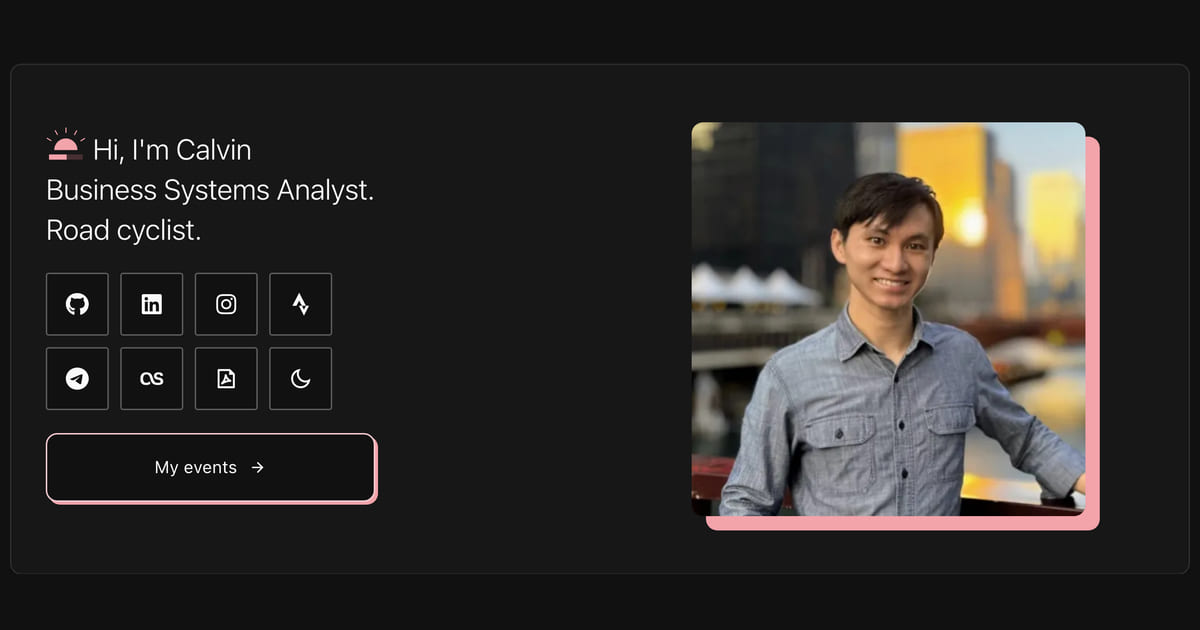
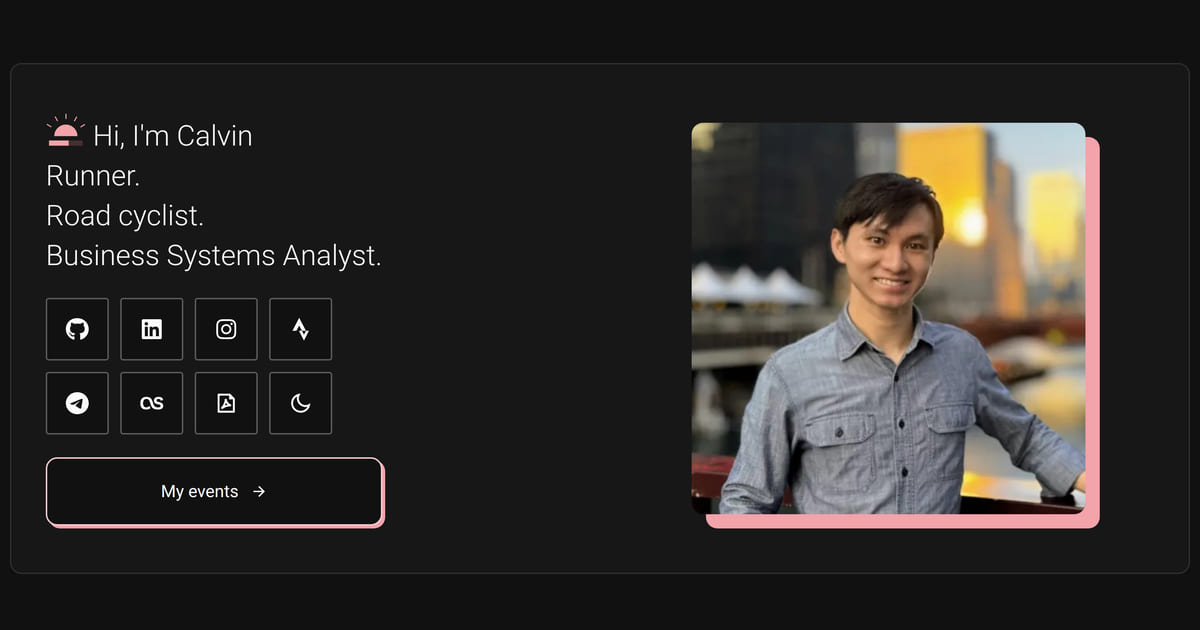
feat(home): lead the intro card with the running, and drop the #cyclehome line (#273)
The hero stack runs sport first and the job last — greeting, Runner., Road
cyclist., job — with the job line still DERIVED from CAREER[0].job_name.
`Runner.` was missing while a running goal card, a running patch wall and a
running spine all shipped.

The About card drops "Join me in my latest cycling challenge 1000km in 5
weeks, helping vulnerable teens #cyclehome". That was blocked on one thing:
plans/README.md filed it as DIRECT-04 and deliberately left it open because
it is the owner's own voice. The owner asked. DIRECT-04 moves to resolved
beside DIRECT-01, and the note above ABOUT_ME keeps the rule without the
sentence it was protecting. Two comments that cited the removed line as their
example now state their rule instead.

The intro card's copy column reserves its height with a FLOOR rather than a
ceiling. `md:max-h-[18.75rem]` still deleted ink: what overflows this column
is the wrapping control row, which gains a whole row at a stroke rather than
scaling with the text, so the content clears the ceiling in one step whatever
unit it is in. Measured at 1280 on the previous revision — 0 overflow at a
16px and 24px root, 95px at 32px, 189px at 40px — and the column centres what
it holds, so half of that left the card's top edge and took the greeting with
it. A reader at 200% text lost the site's first line. Overflow is now 0 at
every root from 16 to 40.

Height, measured on builds of each pair in one sitting: `<main>` and the card
[…]

diff --git a/src/content/home.ts b/src/content/home.ts
@@ -1,5 +1,5 @@
 /**
- * THE HOME PAGE'S CARDS, IN THEIR OWN WORDS: the intro card's h1 stack and its about
+ * THE HOME PAGE'S CARDS, IN THEIR OWN WORDS: the intro card's hero stack, the About card's
  * bullets, the two career entries, the open-source list that reaches no card at all, and
  * the Now card. Copy that belongs to no single card is next door in `src/content/site.ts`.
  *
@@ -145,26 +145,35 @@ export const PROJECTS: {
 }]
 
 /**
- * The intro card's own voice — and the second line NAMES A CHALLENGE THAT IS STILL ON.
+ * The About card's own voice, one bullet per entry. It is ONE line now, and this note is the
+ * record of why the second one left, because that removal is the one thing this file spent a
+ * paragraph arguing an agent must not do on its own.
  *
- * ITS AGE IS NOT EVIDENCE OF DRIFT. A copy audit reached for this line because it had
- * not changed in over a year, which measures the git log rather than the challenge:
- * the ride it names is one the maintainer is still riding, so the sentence is current
- * and was kept. The only thing that can settle this line is the challenge itself —
- * check that before rewriting it, and do not take a commit date as the answer.
+ * THE SECOND LINE ADVERTISED A "1000km in 5 weeks" CHALLENGE, AND ITS AGE WAS NEVER THE
+ * ARGUMENT AGAINST IT. A copy audit reached for it because it had not changed in over a year,
+ * which measures the git log rather than the challenge, and the challenge was still on at the
+ * time — so it was kept, and the defence written here was correct. `plans/README.md` filed the
+ * same finding as DIRECT-04 and left it open on the same grounds: it is the owner's own voice,
+ * so an agent should not rewrite it. THE OWNER ASKED FOR IT, which is exactly and only what
+ * could settle it; that entry now carries the resolution.
+ *
+ * WHAT SURVIVES IS THE RULE RATHER THAN THE SENTENCE IT PROTECTED. A line here is a
+ * self-description, so a commit date is never evidence that one has expired — and neither is a
+ * removed line being missed. Ask; do not audit.
  */
 export const ABOUT_ME: {
     description: string[]
 } = {
     description: [
-        "If you tell me to wake up before sunrise, I'd say you're crazy. But if it's for cycling? Count me in!",
-        "Join me in my latest cycling challenge 1000km in 5 weeks, helping vulnerable teens #cyclehome"
+        "If you tell me to wake up before sunrise, I'd say you're crazy. But if it's for cycling? Count me in!"
     ]
 }
 
 /**
- * The intro card's h1 stack — one `<h1>` per line, and THE JOB LINE IS DERIVED like every other
- * statement of the job on this site.
+ * The intro card's hero stack — the first line is the `<h1>` greeting and carries the brand mark,
+ * the rest are taglines drawn as paragraphs, and THE JOB LINE IS DERIVED like every other
+ * statement of the job on this site. The card splits the array, so a line added here is a
+ * tagline wherever it sits after the first; see `src/components/IntroCard.astro`.
  *
  * IT USED TO BE A TYPED COPY, AND IT WAS WRONG. The line was character-identical to the NCS title
  * of the day — {@link CAREER}[1].job_name, held until Aug 2023 — while the role card a few hundred
@@ -178,7 +187,28 @@ export const ABOUT_ME: {
  * reference worth keeping anywhere. It named nothing else on the site — no card, no page, no goal,
  * no event — and it was already cut from {@link METADATA.title} for the pixels. Cutting it here too
  * is what makes that a decision about the copy rather than a truncation forced by a budget, and it
- * pays for the longer job line: the stack is three h1s where it was four.
+ * pays for the longer job line: the stack went to three lines from four.
+ *
+ * THE TAGLINES RUN SPORT FIRST AND THE JOB LAST, and that is an editorial call rather than a
+ * derived one — so it is written down here, where the lines are, instead of being inferred from
+ * their order. `Runner.` was missing outright while a running goal card, a running patch wall and
+ * a running spine all shipped, and the job led a hero standing on a page whose every other card is
+ * about the training. The stack is back to four lines: greeting, `Runner.`, `Road cyclist.`, job.
+ *
+ * IT COSTS ONE LINE AND THE CARD ABSORBS IT AT `md` AND UP — measured on builds of both revisions
+ * in one sitting, not assumed, because the figures move with whatever the system font stack
+ * resolves to and a pair read on different days is not a comparison. The copy column reserves
+ * `md:min-h-[18.75rem]` and centres what it holds, so a fourth line spends slack that column was
+ * already carrying: the type block goes 86.95 to 114.95, and the card and `<main>` measure the
+ * same on both revisions at 1280, 1440 and 1024. That is the height budget `src/pages/index.astro`
+ * keeps, untouched. Below `md` there is no slack to spend, and the document grows by exactly that
+ * line — 28px at 390x844.
+ *
+ * A FIFTH LINE IS NOT FREE, AND WHAT IT COSTS DEPENDS ON WHERE THE SLACK RAN OUT. Read the note in
+ * `src/components/IntroCard.astro` before adding one: past the floor the column sizes to its own
+ * content, so the line lands on the card and then on `<main>`, whose budget is 14px at 1280 and
+ * 24px at 1024. Nothing clips either way — that is the floor's whole job — but the one screen the
+ * home page promises is spent.
  *
  * ANY EDIT HERE OWES A `public/preview.jpg` REGENERATION. That file is both the OG/social image and
  * README's hero, and it is a render of this very card. It used to go stale invisibly — nothing
@@ -212,7 +242,7 @@ export const WELCOME: {
 } = {
     mark_label: "Calvin's mark — its bar is {percent}% full, the average of this year's "
         + "cycling and running goals",
-    description: ["Hi, I'm Calvin", `${CAREER[0].job_name}.`, "Road cyclist."]
+    description: ["Hi, I'm Calvin", "Runner.", "Road cyclist.", `${CAREER[0].job_name}.`]
 }
 
 /**

diff --git a/tests/content.test.ts b/tests/content.test.ts
@@ -584,10 +584,31 @@ describe("prose blocks", () => {
  *   composite at (10, 63) on a 1200x630 canvas filled with #111111. 1200x630 is the OG aspect
  *   ratio and is load-bearing; the 1.43x enlargement is what makes it a recognisable hero.
  *   Encode with `sharp` — already a devDependency — at `{quality: 82, chromaSubsampling: "4:4:4",
- *   mozjpeg: true}`, which lands around 54-56 KB. 4:4:4 because the subject is UI text and icon
- *   edges. Then diff the new render against the committed file and look at the BOUNDING BOX of
- *   the changed pixels, not a whole-image metric: a copy change should move one band the height
- *   of one line. Anything taller means the composition moved.
+ *   mozjpeg: true}`, which lands in the low 50s of KB. 4:4:4 because the subject is UI text and
+ *   icon edges. Then diff the new render against the committed file and look at the BOUNDING BOX
+ *   of the changed pixels, not a whole-image metric.
+ *
+ * TWO THINGS THE RECIPE USED TO SAY ARE CORRECTED HERE, both by re-measuring rather than by
+ * reasoning, and both would have read as a failed retake to the next person who followed it:
+ *
+ *   THE BOUNDING BOX IS NOT ONE LINE-BAND, and it stopped being one when the copy column started
+ *   centring what it holds. This said "a copy change should move one band the height of one line.
+ *   Anything taller means the composition moved" — true of a column pinned at its top, and false
+ *   of this one: adding a line pushes everything above the centre up by half a line and everything
+ *   below it down by the same, so the box covers the whole copy column. Retaking with a fourth
+ *   tagline moved 661x417 of it. What still holds is the useful half — the CARD's own box must not
+ *   move. It measured 824x358.30 at the 1200px capture width before and after, so the composite
+ *   geometry above was unchanged; a card that has grown is the thing a retake must not paper over.
+ *
+ *   THE TYPE IS A SYSTEM STACK, SO THE RENDERING MACHINE IS PART OF THE RECIPE. `BasicLayout.astro`
+ *   asks for `-apple-system, BlinkMacSystemFont, "Segoe UI", Roboto, ...`, so a Mac renders this
+ *   hero in SF and a bare Linux box falls through to whatever Helvetica aliases to — Liberation
+ *   Sans, i.e. Arial metrics, which set the same copy 4-5% wider and widened the call to action
+ *   with it. That is a re-typesetting arriving inside a copy change, and it is invisible in a
+ *   fingerprint. Resolve the stack as authored: with Roboto installed, a Linux retake of the
+ *   UNCHANGED card reproduced the committed file to a mean absolute difference of 1.35/255 and
+ *   within 1.1% of its byte size, which is what makes the retake a regeneration rather than a
+ *   redraw. Reproduce the previous file that way before trusting a new one.
  */
 describe("public/preview.jpg", () => {
     it("still depicts the content the intro card renders", () => {
@@ -602,7 +623,7 @@ describe("public/preview.jpg", () => {
 
         expect(fingerprint, "the intro card's content has changed, so public/preview.jpg now "
             + "disagrees with the page it is a render of. Regenerate it by the recipe above, then "
-            + `record the new fingerprint here: ${fingerprint}`).toBe("e5d36879e213d190");
+            + `record the new fingerprint here: ${fingerprint}`).toBe("9bd4aa884204467c");
     });
 });
 

diff --git a/tests/card-fill.test.ts b/tests/card-fill.test.ts
@@ -508,7 +508,20 @@ describe("a card sizes to its content, not to its grid area", () => {
      * card. `BasicLayout.astro` already named one as the residue it could not reach:
      * the intro card's copy column carried a 300px cap, and at a 768px width and a
      * 24px root it still ate 48px of the control row after everything else had been
-     * fixed. It is `18.75rem` now, which is the same 300px at the default root size.
+     * fixed. Making it `18.75rem` — the same 300px at the default root size — fixed the
+     * SCALING and left the ceiling in place, and the column is not capped at all now.
+     *
+     * THAT LAST STEP IS THE ONE WORTH READING, because a relative cap looks like the end
+     * of this argument and is not. What overflows this column is the wrapping control
+     * row, which gains a whole row at a stroke rather than growing with the text, so the
+     * content clears any ceiling in rem exactly as it cleared one in px — just later.
+     * Measured at 1280 on the revision before the copy column took a fourth line: zero
+     * overflow at a 16px and a 24px root, then 95px of it at 32px and 189px at 40px, the
+     * column being centred so half of that left the card's top edge and took the greeting
+     * with it. The ceiling is a floor now (`md:min-h-[18.75rem]` in `IntroCard.astro`),
+     * which reserves exactly what the cap was there to reserve — the card's proportions
+     * at the default size, where the column holds less than it — and reserves nothing at
+     * the sizes where it was deleting ink. Overflow is 0 at every root from 16 to 40.
      *
      * Written with a KNOWN-EXCEPTION set rather than as a blanket ban, because two
      * absolute caps in here are right — and the exception is keyed on the ELEMENT,

diff --git a/tests/rendered-html.test.ts b/tests/rendered-html.test.ts
@@ -339,8 +339,12 @@ describe("page content", () => {
             // two sport walls; it is simply no longer on this page.
             expect(text, `the card's heading and its control must write "${sport}" identically`)
                 .toContain(TRAINING.control.replace("{sport}", sport));
-            // Composed phrases, not bare numbers: "1000" alone also appears in
-            // ABOUT_ME prose, so a bare containment cannot fail for the card.
+            // Composed phrases, not bare numbers. The example this used to cite was
+            // "1000" appearing in ABOUT_ME's prose as well as in a goal, and that
+            // sentence has since been removed — which is the reason to state the rule
+            // rather than the coincidence that once demonstrated it. A bare number is
+            // satisfied by any digits anywhere on a page this dense in figures, so it
+            // cannot fail for the card even while the card is wrong.
             //
             // The card prints its fraction as a hero pair now — "2279.7 / 5000 km" — where
             // it used to print "2279.7 km of 5000 km". This is the gate on the card's

diff --git a/src/content/site.ts b/src/content/site.ts
@@ -435,9 +435,9 @@ export const METADATA: {
      * One sentence on the work, in his own words, for `/llms.txt`.
      *
      * NOT {@link ABOUT_ME}, WHICH IS THE WRONG REGISTER FOR THIS. That copy is the
-     * page's voice — waking before sunrise, #cyclehome — and it is right there and wrong
-     * here: an agent asked "what does Calvin do professionally" should not have to infer
-     * it from cycling banter. {@link METADATA.description} is no better; it is a meta
+     * page's voice — being talked out of bed before sunrise for a ride — and it is right
+     * there and wrong here: an agent asked "what does Calvin do professionally" should not
+     * have to infer it from cycling banter. {@link METADATA.description} is no better; it is a meta
      * description, written to earn a click.
      *
      * Quoted from the profile README rather than paraphrased, so the sentence GitHub

diff --git a/plans/README.md b/plans/README.md
@@ -1197,9 +1197,11 @@ re-audited next run:
 ## Deliberately not planned
 
 Two direction findings survived vetting as the maintainer's call, not an
-agent's. **DIRECT-01 has since been decided** (2026-07-22 → plan 015); it is
-kept below with its resolution so the reasoning is not re-derived. DIRECT-04
-remains open:
+agent's. **Both have since been decided** — DIRECT-01 on 2026-07-22 (→ plan 015)
+and DIRECT-04 on 2026-09-10 — and both are kept below with their resolutions so
+the reasoning is not re-derived. Neither was overruled; each waited for the one
+person who could answer it, which is the point of this section rather than an
+overhead of it:
 
 - **DIRECT-01 — resolved 2026-07-22, see plan 015.** The maintainer supplied the
   decision this finding was waiting on: a daily GitHub Actions cron writes
@@ -1210,11 +1212,17 @@ remains open:
   than overruled: the fetch happens in CI, not at build time, so the static build
   can still never fail on someone else's API — a bad or missing response simply
   produces no commit.
-- **DIRECT-04 — stale time-bounded copy.** `ABOUT_ME.description` has advertised a
-  "latest cycling challenge 1000km in 5 weeks" unchanged for 13 months, and it is
-  live in production right now. It is a ten-second edit, but it is the owner's
-  own voice; an agent should not rewrite someone's self-description. Plan 007
-  flags it and changes nothing.
+- **DIRECT-04 — resolved 2026-09-10.** The finding: `ABOUT_ME.description` had
+  advertised a "latest cycling challenge 1000km in 5 weeks" unchanged for 13
+  months, live in production. It was a ten-second edit and it stayed open anyway,
+  because it is the owner's own voice and an agent should not rewrite someone's
+  self-description. Plan 007 flagged it and changed nothing; the note above
+  `ABOUT_ME` argued the same thing from the other end, that the line's AGE
+  measured the git log rather than the challenge, which was still on. **The owner
+  asked for the line to be removed**, which is the only thing that could settle
+  it, and the card is one bullet now. The reasoning is worth keeping past the
+  edit: what expired here was a fact about the world that no gate in this tree can
+  see, so the resolution came from the person and not from a re-audit.
 
 ## Open items owned by the maintainer
 
